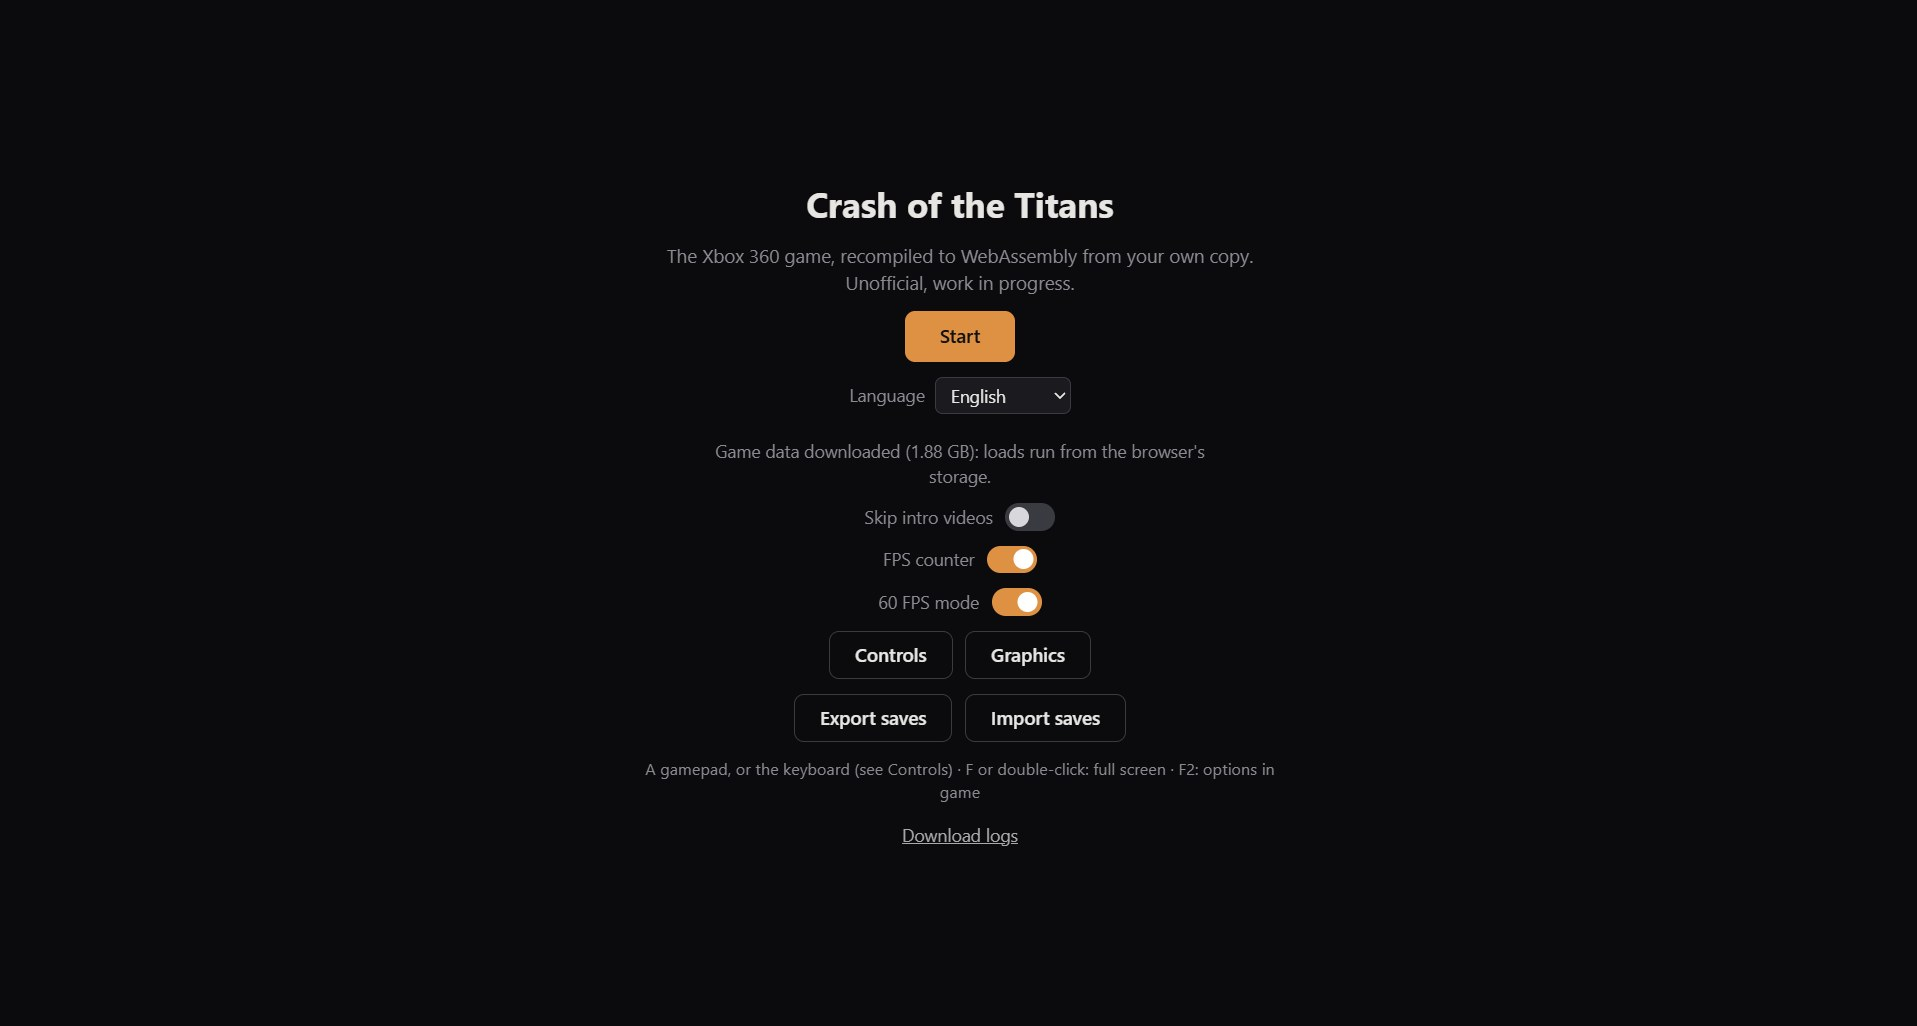
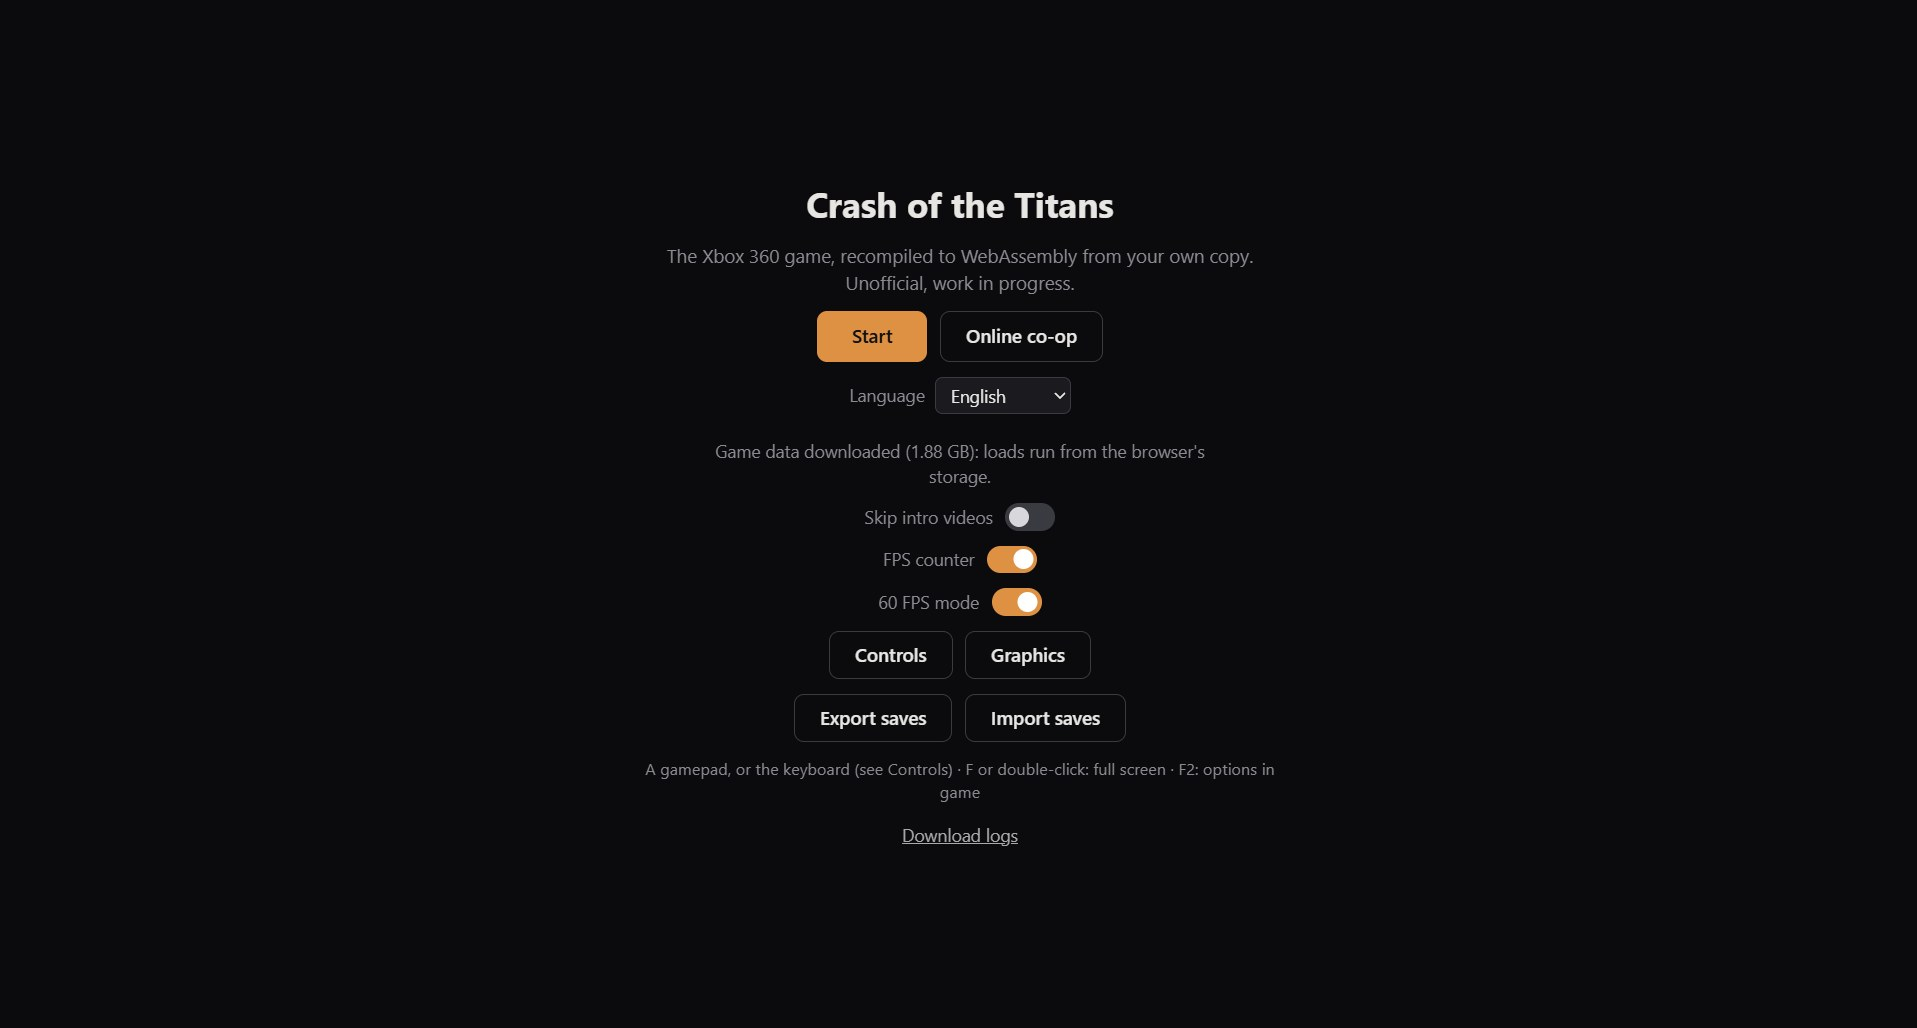
README updated

diff --git a/README.md b/README.md
@@ -1,4 +1,4 @@
-# Crash-OTT-web
+# Crash of the Titans web
 
 Crash of the Titans (Xbox 360) in the browser, built from **your own copy** of the game.
 
@@ -21,10 +21,12 @@ Taken in Chrome from the author's own copy, with the 60 FPS mode and the FPS cou
 
 | | |
 |---|---|
-| ![The start page: language, game data download, switches, Controls, Graphics, saves](docs/images/start-page.jpg) | ![The title screen at 60 fps](docs/images/title-screen.jpg) |
+| ![The start page: Start, Online co-op, language, game data download, switches, Controls, Graphics, saves](docs/images/start-page.jpg) | ![The title screen at 60 fps](docs/images/title-screen.jpg) |
 | The start page | The title screen |
 | ![Episode 1's intro, with the page's "hold to skip" prompt](docs/images/episode-intro.jpg) | ![Crash in the first level at 60 fps](docs/images/gameplay.jpg) |
 | Episode 1's intro (hold to skip) | The first level |
+| ![The Online co-op dialog: the player's name, Host a session, the sessions on this server](docs/images/online-coop.jpg) | ![Two players in the first level in online co-op, the session's panel at the top right](docs/images/coop-gameplay.jpg) |
+| Online co-op: host, or join a session | Two players in online co-op |
 
 ## Requirements
 
